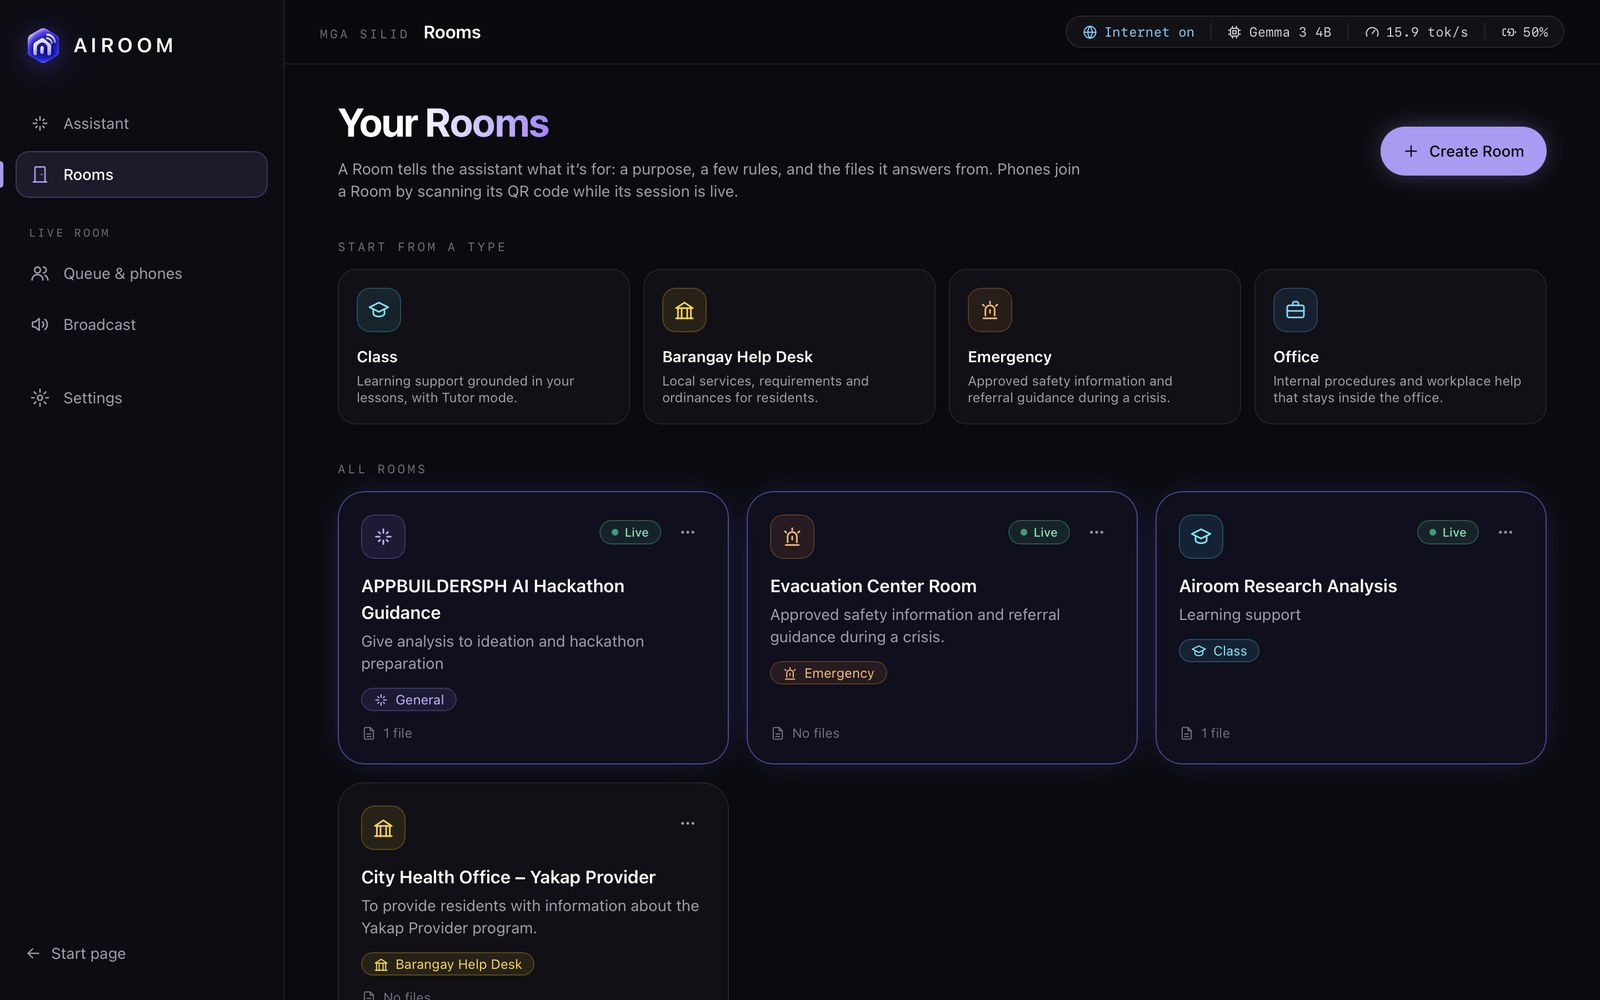
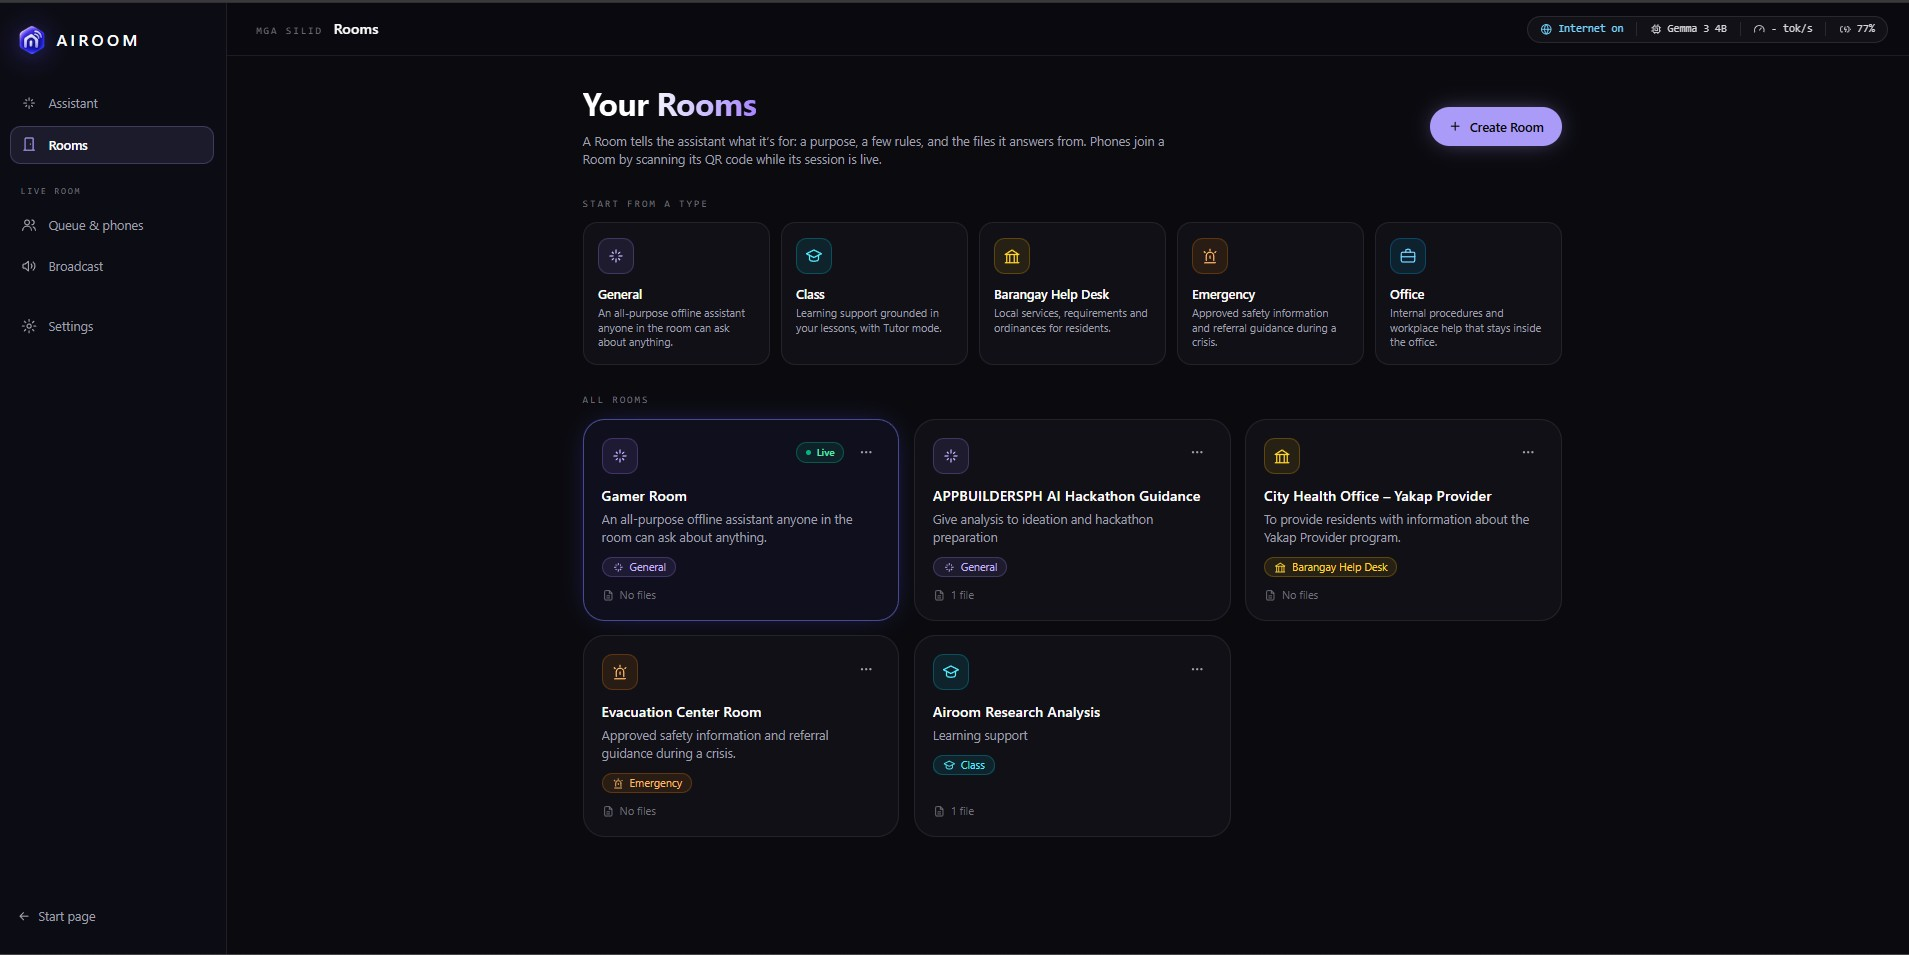
Ref: Updated  README with Team LUXUS, screenshots and added a new category for a room called general, which is an all purpose room

diff --git a/README.md b/README.md
@@ -63,7 +63,7 @@ AIROOM turns one computer (a laptop or a desktop) into a private AI that everyon
 
 It is **simple on the surface**: out of the box it is a general assistant for anyone in the room. It goes **deeper when it matters**: a host can turn the room into a *Room* with its own files and rules, it stays fair and private when the room is full, and in an emergency it puts safety first.
 
-Built solo during the **AppBuildersPH Hackathon 2026** (theme: *Local AI*).
+Built by **Team LUXUS** during the **AppBuildersPH Hackathon 2026** (theme: *Local AI*).
 
 ---
 
@@ -328,15 +328,19 @@ Full list in [DISCLOSURE.md](DISCLOSURE.md).
 - **Libraries:** `ollama`, `unpdf`, `mammoth`, `qrcode`, `adm-zip`, `systeminformation`, `p-queue`.
 - **APIs / cloud services:** none at runtime. The internet is used only to install dependencies and download models.
 - **Existing code and assets:** none from before the hackathon. Fonts are Inter Tight and JetBrains Mono (SIL Open Font License, via Fontsource).
-- **AI development tools:** parts of the code, documentation and this README were written with help from Claude (Anthropic) through Claude Code. The builder reviewed and is responsible for everything that ships.
+- **AI development tools:** parts of the code, documentation and this README were written with help from Claude (Anthropic) through Claude Code. The team reviewed and is responsible for everything that ships.
 
 ---
 
 ## Team
 
+**Team LUXUS**
+
 | Name | Role |
 | --- | --- |
-| **Jhon Lloyd Valencia** | Solo builder: product, design, engineering |
+| **Jhon Lloyd Valencia** | Product manager and design |
+| **Kyle Allen Abandia** | AI development and backend |
+| **Franck Maurenzio Altamarino** | Design, testing and frontend |
 
 ---
 
